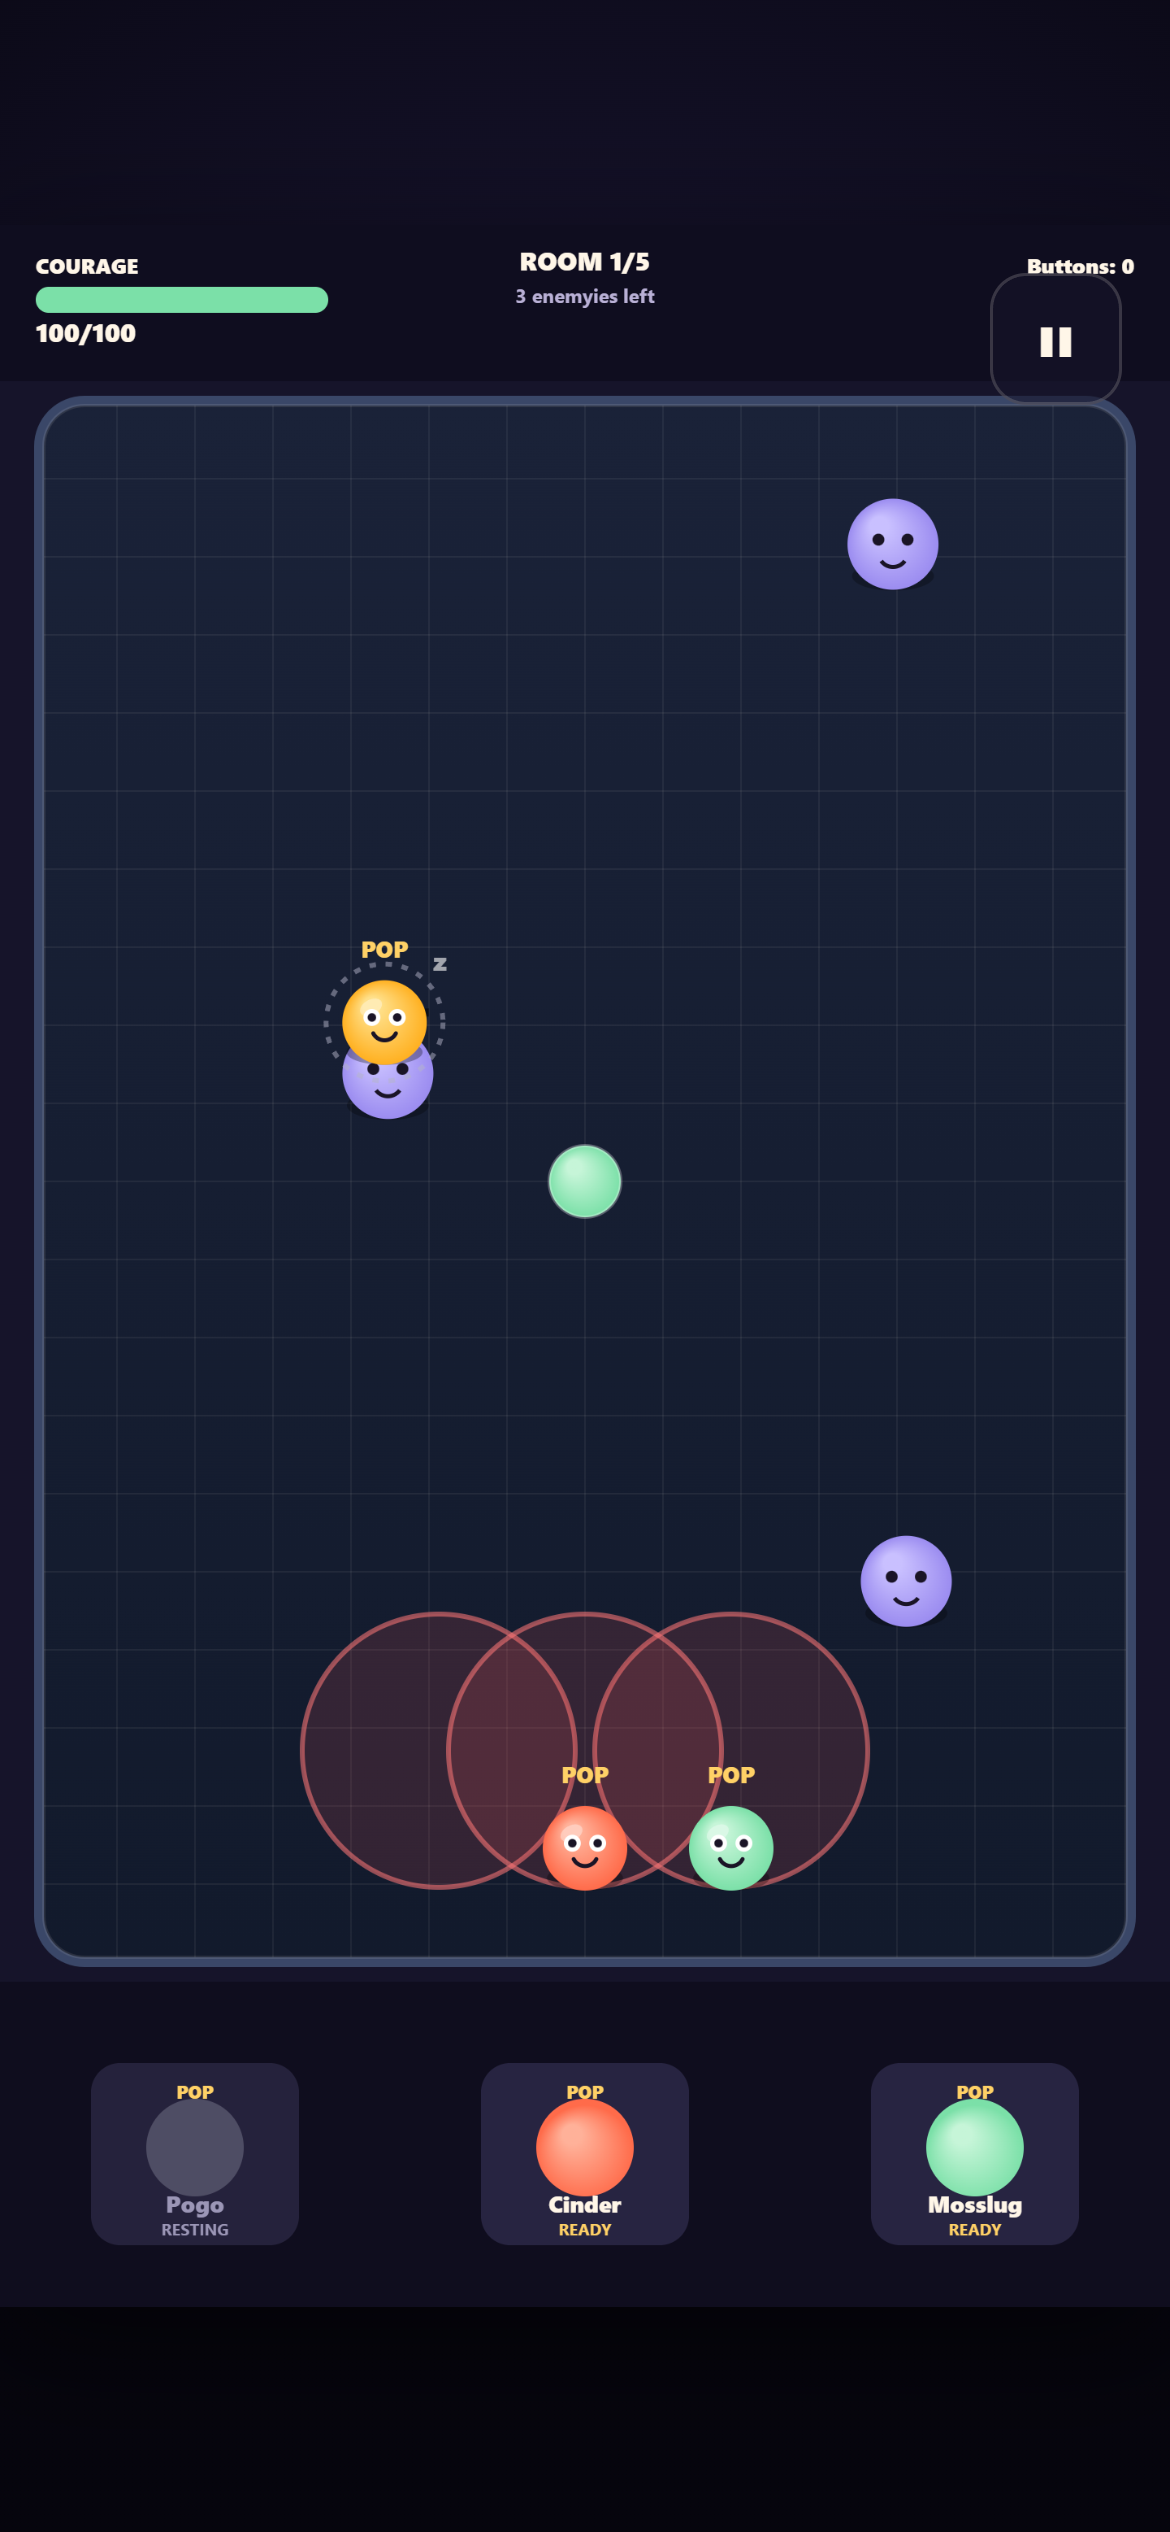
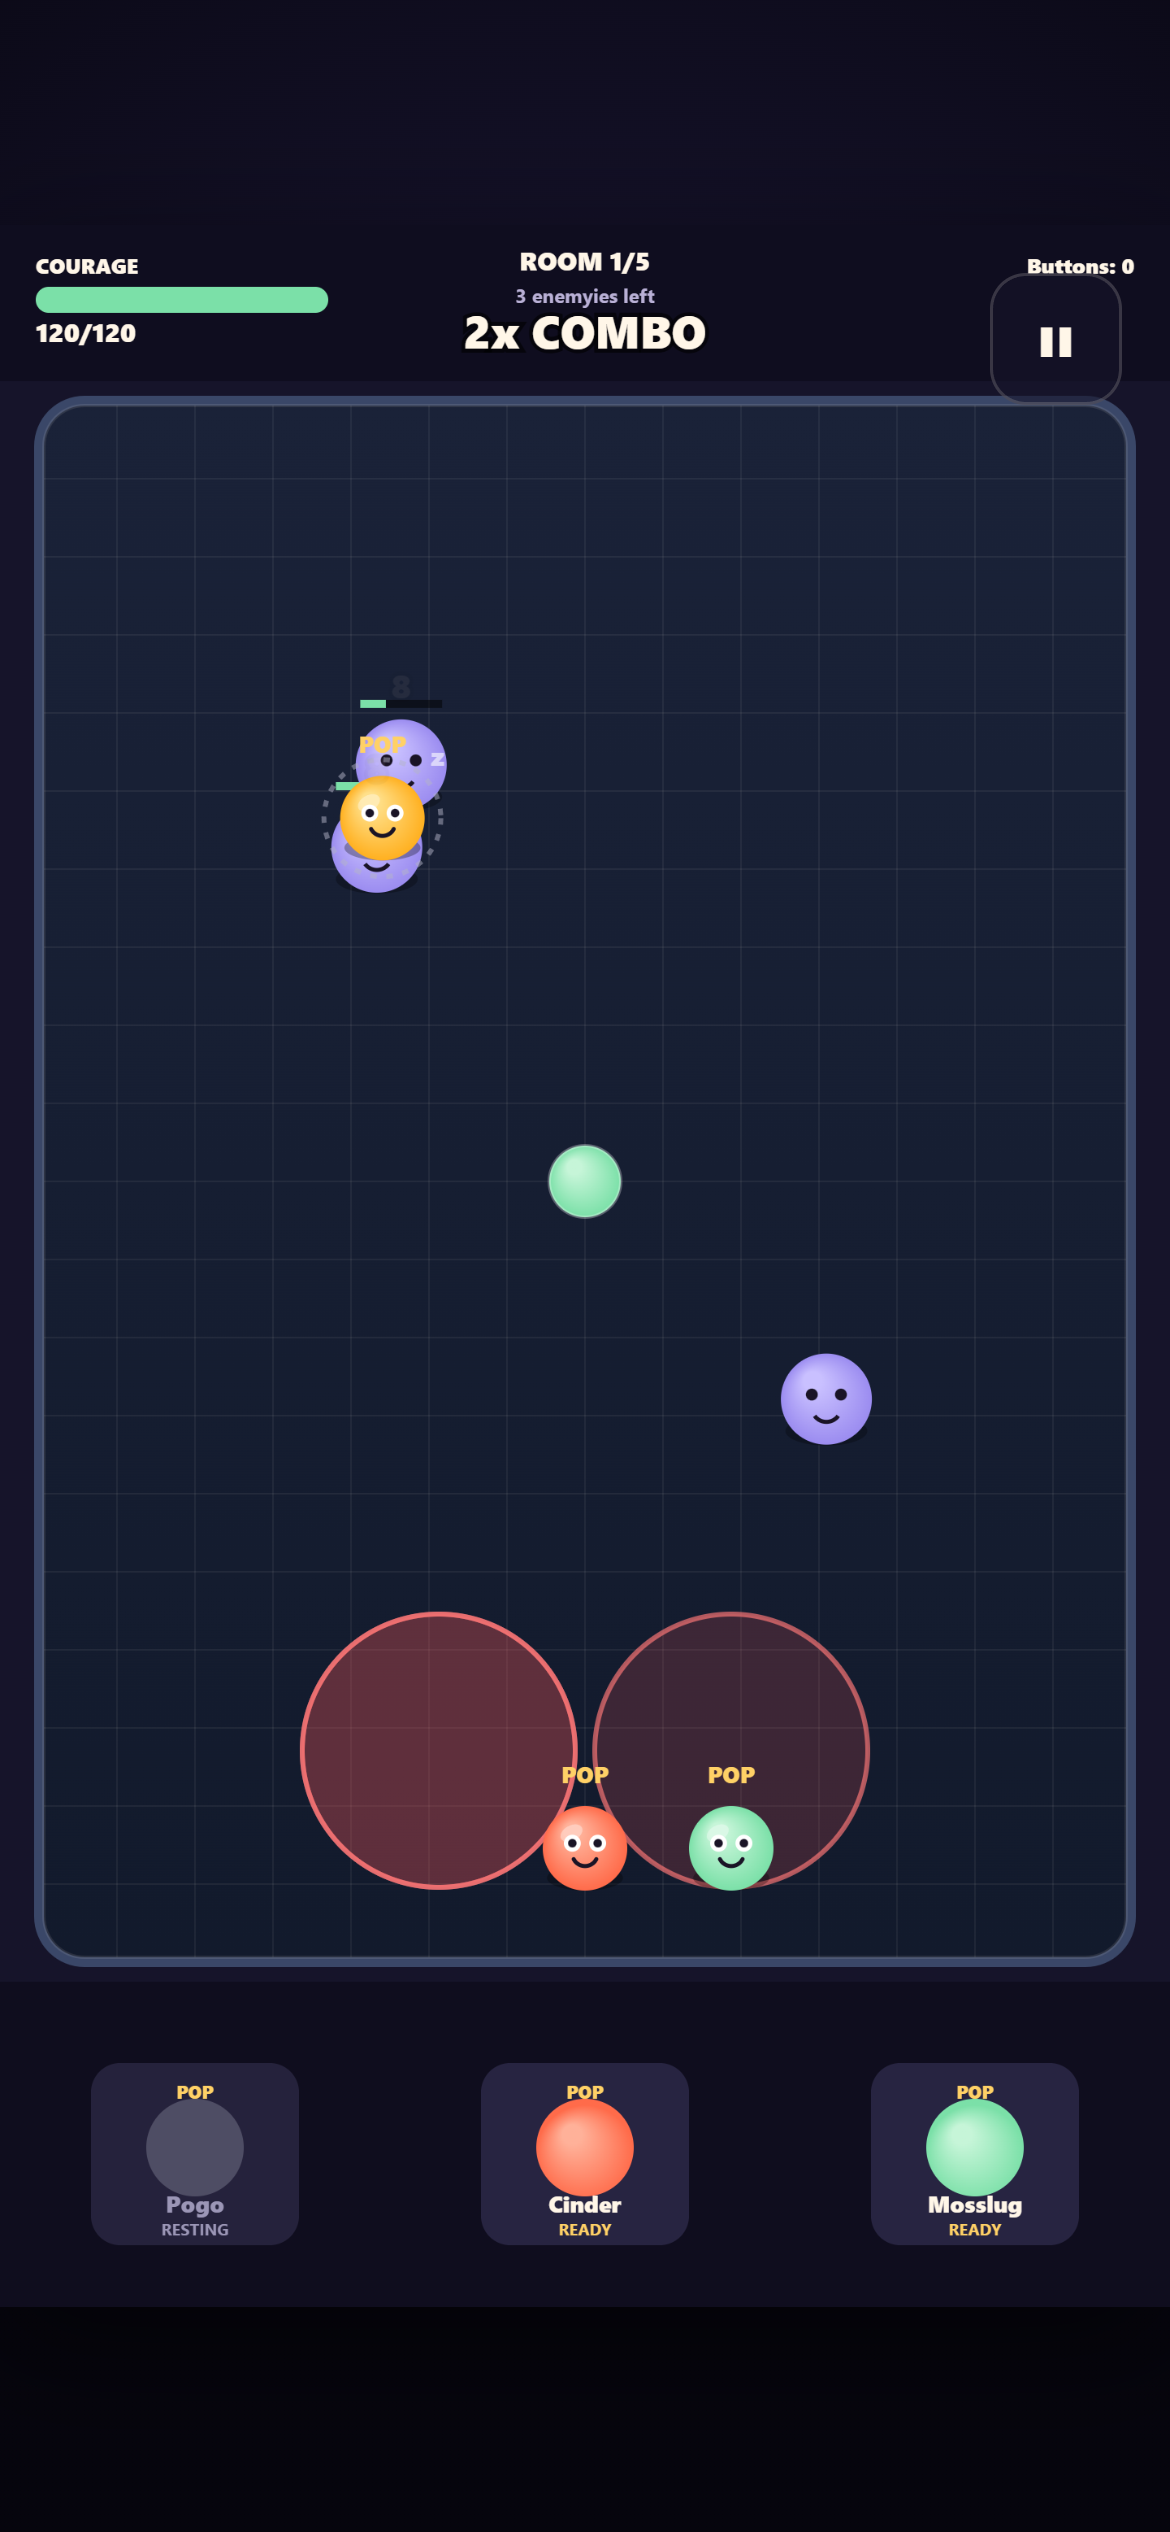
feat: onboarding tutorial coach-marks (blueprint §17 FTUE)
Step-by-step: drag-to-aim, dotted preview, release, combo, enemy-intent.
- Auto-dismiss after correct input (§17: disappears after correct gesture)
- Pulsing ring draws the eye to the active Popling
- Skippable (tap coach) + persists 'seen' so repeat players aren't nagged (§17)
- First room of fresh expeditions only (not Daily Shot)

diff --git a/www/js/tutorial.js b/www/js/tutorial.js
@@ -1,0 +1,165 @@
+/* tutorial.js — first-time user experience coach marks (blueprint §17).
+   Gentle, auto-dismiss after correct input, only on the very first room,
+   skippable on repeat (§17: "Any forced gesture tutorial disappears
+   immediately after correct input"). */
+(function (global) {
+  'use strict';
+
+  // Step sequence (blueprint §17 minute-by-minute flow, condensed).
+  const STEPS = [
+    {
+      id: 'welcome',
+      icon: '👋',
+      text: 'Meet Pogo. Drag back from a glowing Popling to aim — like a slingshot.',
+      hint: 'DRAG BACKWARD FROM POGO',
+      waitFor: 'aim-start',
+    },
+    {
+      id: 'aim',
+      icon: '🎯',
+      text: 'The dotted line previews your ricochet. Drag farther for more power.',
+      hint: 'DRAG UNTIL THE LINE POINTS AT AN ENEMY',
+      waitFor: 'release',
+    },
+    {
+      id: 'release',
+      icon: '✋',
+      text: 'Release to launch! Watch Pogo ricochet off walls and enemies.',
+      hint: 'WAIT FOR THE SHOT TO RESOLVE',
+      waitFor: 'shot-end',
+    },
+    {
+      id: 'combo',
+      icon: '💥',
+      text: 'Bounces build COMBOS — chain off walls, allies, and bumpers for big damage!',
+      hint: 'TAKE ANOTHER SHOT',
+      waitFor: 'second-shot',
+    },
+    {
+      id: 'intent',
+      icon: '⚠️',
+      text: 'Red zones show where enemies attack next. Move Poplings out of danger!',
+      hint: 'YOU\u2019VE GOT THIS',
+      waitFor: 'dismiss',
+    },
+  ];
+
+  let active = false;
+  let stepIdx = 0;
+  let shotsSeen = 0;
+  let game = null;
+
+  function init(g) {
+    game = g;
+    // Only show tutorial for fresh expeditions (not daily), and only first room.
+    // Persist "seen" so repeat players don't get nagged (§17: skippable on repeat).
+  }
+
+  function isActive() { return active; }
+
+  function start() {
+    // Don't start if the player has already seen the tutorial this device.
+    let seen = false;
+    try { seen = localStorage.getItem('pullpop_tutorial_done') === '1'; } catch (e) {}
+    if (seen) { active = false; return; }
+    active = true;
+    stepIdx = 0;
+    shotsSeen = 0;
+    showStep();
+  }
+
+  function showStep() {
+    if (!active || stepIdx >= STEPS.length) { hide(); return; }
+    const step = STEPS[stepIdx];
+    const coach = document.getElementById('tutorial-coach');
+    if (!coach) return;
+    coach.classList.remove('hidden');
+    document.getElementById('coach-icon').textContent = step.icon;
+    document.getElementById('coach-text').textContent = step.text;
+    document.getElementById('coach-hint').textContent = step.hint;
+    // Pulse on the active popling for the first few steps
+    const pulse = document.getElementById('tutorial-pulse');
+    if (stepIdx <= 1 && pulse && game && game.activePopling) {
+      positionPulse();
+      pulse.classList.remove('hidden');
+    } else if (pulse) {
+      pulse.classList.add('hidden');
+    }
+  }
+
+  function positionPulse() {
+    const pulse = document.getElementById('tutorial-pulse');
+    if (!pulse || !game || !game.activePopling) return;
+    const canvas = document.getElementById('game');
+    const rect = canvas.getBoundingClientRect();
+    const stage = document.getElementById('stage');
+    const sRect = stage.getBoundingClientRect();
+    const p = game.activePopling();
+    if (!p) return;
+    const V = PP_Config.VIEW;
+    // map game coords -> stage pixel coords
+    const px = (p.x / V.w) * rect.width + (rect.left - sRect.left);
+    const py = (p.y / V.h) * rect.height + (rect.top - sRect.top);
+    pulse.style.left = px + 'px';
+    pulse.style.top = py + 'px';
+  }
+
+  function next() {
+    stepIdx++;
+    if (stepIdx >= STEPS.length) { complete(); }
+    else { showStep(); }
+  }
+
+  function complete() {
+    active = false;
+    hide();
+    try { localStorage.setItem('pullpop_tutorial_done', '1'); } catch (e) {}
+  }
+
+  function hide() {
+    const coach = document.getElementById('tutorial-coach');
+    const pulse = document.getElementById('tutorial-pulse');
+    if (coach) coach.classList.add('hidden');
+    if (pulse) pulse.classList.add('hidden');
+  }
+
+  // Event hook: called by the game when notable things happen.
+  function onEvent(eventId) {
+    if (!active) return;
+    const step = STEPS[stepIdx];
+    if (!step) return;
+
+    if (eventId === 'aim-start') {
+      // Player started dragging — advance past the welcome prompt.
+      if (step.waitFor === 'aim-start') next();
+    } else if (eventId === 'release') {
+      if (step.waitFor === 'release') next();
+    } else if (eventId === 'shot-end') {
+      shotsSeen++;
+      if (step.waitFor === 'shot-end') { next(); }
+      else if (step.waitFor === 'second-shot' && shotsSeen >= 2) { next(); }
+    } else if (eventId === 'dismiss') {
+      if (step.waitFor === 'dismiss') next();
+    }
+  }
+
+  // Allow manual skip (tap the coach to dismiss current step).
+  function skip() {
+    if (!active) return;
+    next();
+  }
+
+  // Per-frame update (positions the pulse ring over the active popling).
+  function update() {
+    if (!active) return;
+    if (stepIdx <= 1) positionPulse();
+  }
+
+  // Reset for a new run (only activates on first-ever play).
+  function resetForRun(isDaily) {
+    if (isDaily) { active = false; hide(); return; }
+    // Tutorial only triggers on room 0; the game calls start() when room 0 builds.
+  }
+
+  global.PP_Tutorial = { init, isActive, start, onEvent, skip, update, resetForRun, complete, hide };
+})(typeof window !== 'undefined' ? window : globalThis);

diff --git a/www/css/style.css b/www/css/style.css
@@ -259,3 +259,43 @@ input[type="range"]::-webkit-slider-thumb {
 /* Reduce motion preference */
 .reduce-motion .title-pop { animation: none; }
 .reduce-motion .screen { animation: none; }
+
+/* ---------- Tutorial coach-marks (blueprint §17 FTUE) ---------- */
+.tutorial-layer {
+  position: absolute; inset: 0; pointer-events: none; z-index: 6;
+}
+.tutorial-coach {
+  position: absolute; left: 50%; bottom: 230px;
+  transform: translateX(-50%);
+  background: rgba(22, 20, 42, 0.94);
+  border: 2px solid var(--accent);
+  border-radius: 16px;
+  padding: 14px 22px;
+  max-width: 80%;
+  text-align: center;
+  box-shadow: 0 8px 28px rgba(0, 0, 0, 0.5);
+  animation: coachPop 0.3s ease both;
+}
+.tutorial-coach.hidden { display: none; }
+@keyframes coachPop {
+  from { opacity: 0; transform: translateX(-50%) translateY(12px) scale(0.92); }
+  to { opacity: 1; transform: translateX(-50%) translateY(0) scale(1); }
+}
+.coach-icon { font-size: 30px; margin-bottom: 4px; }
+.coach-text { color: var(--ink); font-weight: 800; font-size: 16px; line-height: 1.3; }
+.coach-hint { color: var(--accent); font-size: 12px; font-weight: 700; margin-top: 6px; letter-spacing: 0.5px; }
+
+/* Pulsing ring that draws the eye to the active popling (§17: immediate pull) */
+.tutorial-pulse {
+  position: absolute; width: 90px; height: 90px;
+  border-radius: 50%;
+  border: 3px solid var(--accent);
+  transform: translate(-50%, -50%);
+  animation: pulseRing 1.4s ease-in-out infinite;
+  pointer-events: none;
+}
+.tutorial-pulse.hidden { display: none; }
+@keyframes pulseRing {
+  0%, 100% { opacity: 0.8; box-shadow: 0 0 0 0 rgba(255, 209, 102, 0.5); transform: translate(-50%, -50%) scale(1); }
+  50% { opacity: 0.3; box-shadow: 0 0 0 18px rgba(255, 209, 102, 0); transform: translate(-50%, -50%) scale(1.25); }
+}

diff --git a/www/index.html b/www/index.html
@@ -98,6 +98,16 @@
 
       <!-- Loading/flash layer -->
       <div id="flash" class="flash"></div>
+
+      <!-- Tutorial coach-marks (blueprint §17) -->
+      <div id="tutorial-layer" class="tutorial-layer">
+        <div id="tutorial-coach" class="tutorial-coach hidden">
+          <div class="coach-icon" id="coach-icon">👆</div>
+          <div class="coach-text" id="coach-text"></div>
+          <div class="coach-hint" id="coach-hint"></div>
+        </div>
+        <div id="tutorial-pulse" class="tutorial-pulse hidden"></div>
+      </div>
     </div>
   </div>
 
@@ -114,6 +124,7 @@
   <script src="js/render.js"></script>
   <script src="js/ui.js"></script>
   <script src="js/game.js"></script>
+  <script src="js/tutorial.js"></script>
   <script src="js/main.js"></script>
 </body>
 </html>

diff --git a/www/js/game.js b/www/js/game.js
@@ -135,12 +135,15 @@
       this.totalRooms = 5;
       this._rerollsLeft = 1;
       this.runStats = { roomsCleared: 0, bestCombo: 0, shotsFired: 0, damageDealt: 0, enemiesDefeated: 0 };
+      this.isDaily = false;
       this.buildRoom(0);
       this.setState(S.PLAYING);
       this.phase = PH.AIM;
       PP_Replay.reset();
       PP_Replay.startRecording();
       PP_Effects.clearAll();
+      // Start the onboarding tutorial on the first room of a fresh expedition (§17).
+      if (global.PP_Tutorial && this.roomIndex === 0) global.PP_Tutorial.start();
     }
 
     // ---- Daily Shot (blueprint §13.3): one shared seeded puzzle per day ----
@@ -398,10 +401,16 @@
     }
 
     // ---- aim handling (from input.js) ----
+    // Lightweight event hook for the tutorial system (blueprint §17). Safe no-op if absent.
+    _tutorial(eventId) {
+      try { if (global.PP_Tutorial && global.PP_Tutorial.isActive && global.PP_Tutorial.isActive()) global.PP_Tutorial.onEvent(eventId); } catch (e) {}
+    }
+
     onAimStart(p) {
       this.activePoplingIdx = this.squad.indexOf(p);
       this.aim = { pivot: { x: p.x, y: p.y }, dir: { x: 0, y: 0 }, forceFrac: 0, d: 0, cancel: false, validShot: false };
       p._aimStretch = 0.85; // pre-stretch anticipation (§6 Pull: body stretches toward finger)
+      this._tutorial('aim-start');
     }
     onAimMove(aim) {
       this.aim = aim;
@@ -444,6 +453,7 @@
 
       this.beginShot(p, info);
       this.aim = null;
+      this._tutorial('release');
     }
 
     beginShot(p, info) {
@@ -908,6 +918,7 @@
       // Buttons reward for big combos (§12 run-only currency)
       if (this.roomBestCombo >= 5) this.buttons += Math.floor(this.roomBestCombo / 2);
       PP_Input.notifyShotEnd();
+      this._tutorial('shot-end');
       // burn damage tick (§8): deals damage after enemy acts — we do it during enemy turn
       this.phase = PH.ENEMY;
       this.enemyActTimer = 0;

diff --git a/www/js/main.js b/www/js/main.js
@@ -30,6 +30,7 @@
   game.attach(canvas);
   PP_UI.init(game);
   PP_UI.bindAugmentUI();
+  PP_Tutorial.init(game);
   // Expose for debugging/testing
   window.__PP_GAME = game;
 
@@ -75,6 +76,12 @@
     };
   }
 
+  // Tap a tutorial coach-mark to skip it (§17: skippable).
+  const coachEl = document.getElementById('tutorial-coach');
+  if (coachEl) {
+    coachEl.addEventListener('click', () => { PP_Tutorial.skip(); });
+  }
+
   // Keyboard: ESC/P pause, Space POP
   window.addEventListener('keydown', (e) => {
     if (e.key === 'Escape' || e.key === 'p' || e.key === 'P') {
@@ -117,6 +124,8 @@
 
     // update
     game.update(dt);
+    // tutorial coach-mark follow (§17)
+    PP_Tutorial.update();
 
     // augment screen sync (if game entered AUGMENT state, show the UI)
     if (game.state === PP_Game.States.AUGMENT && game._pendingAugmentOffer) {